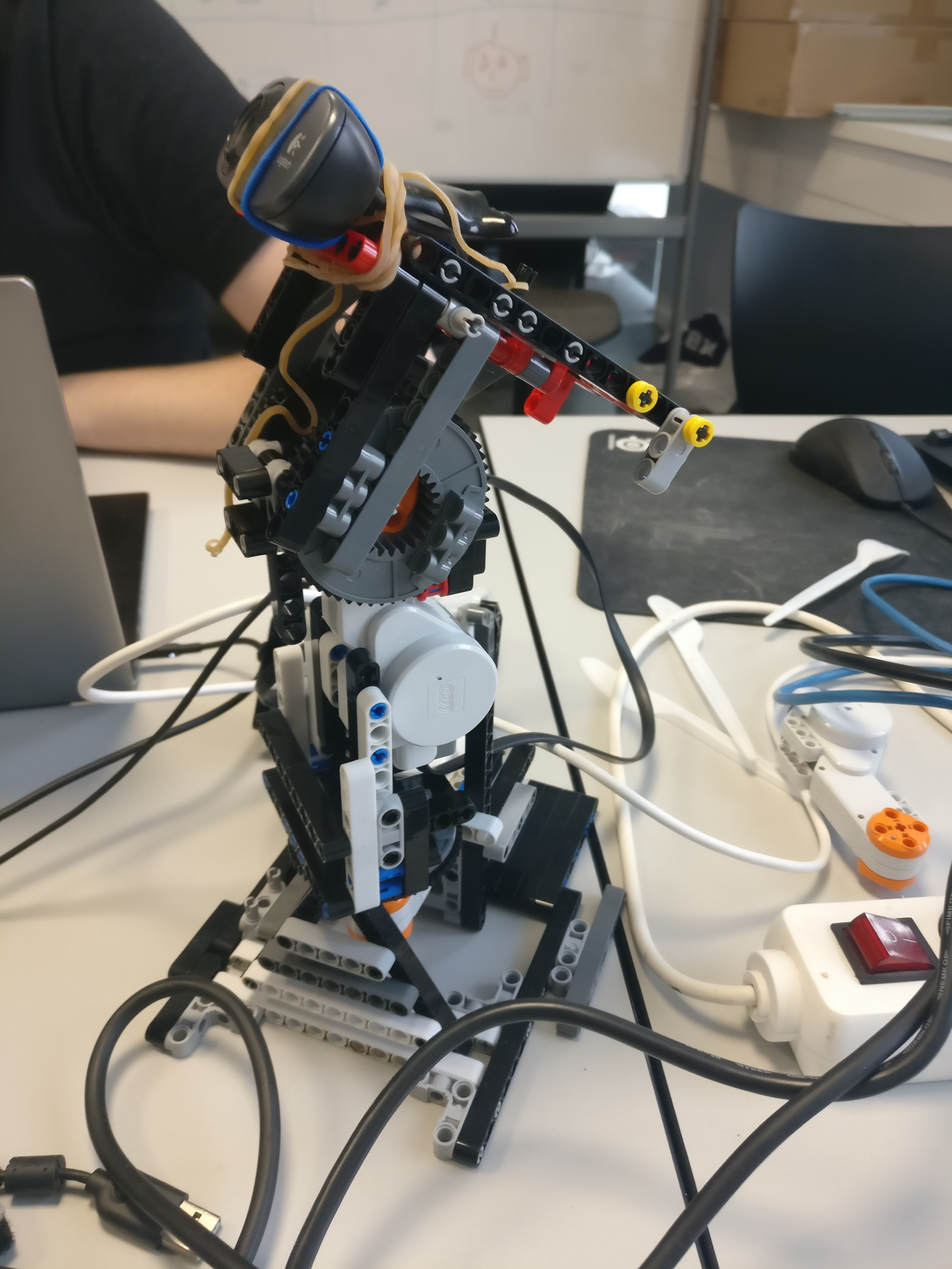
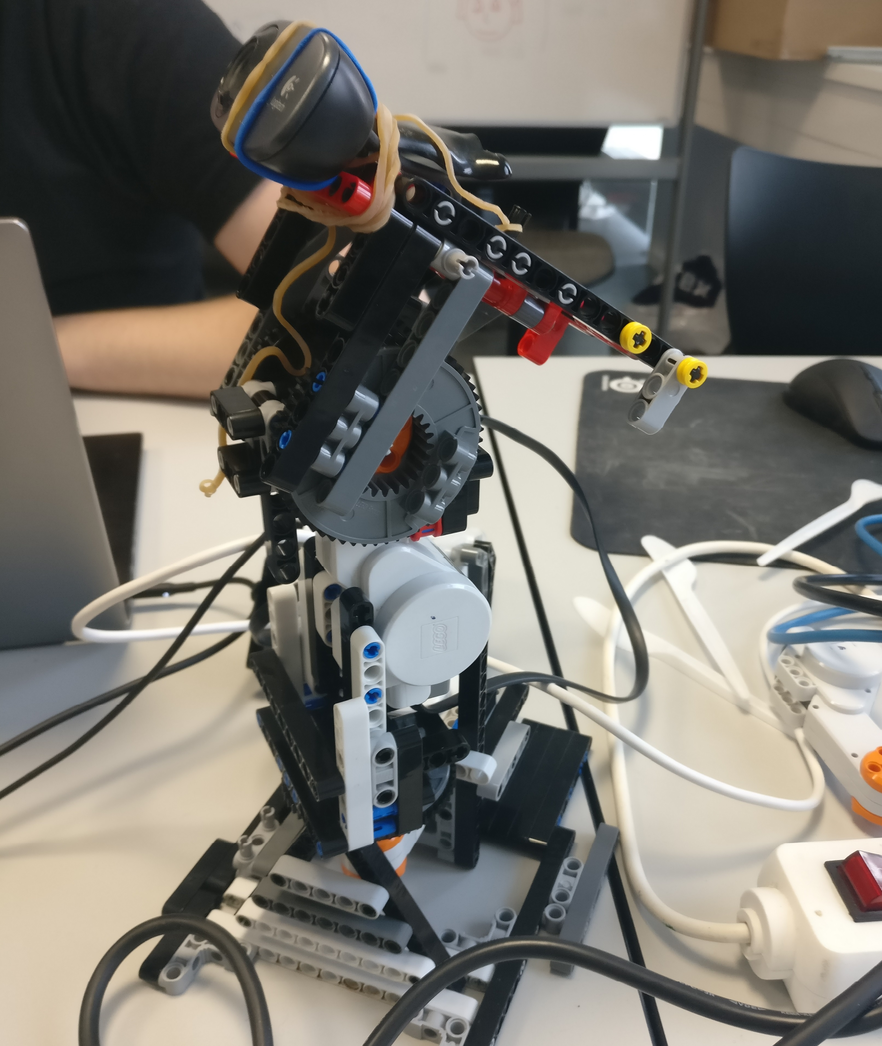
P5 216 compact robot (#127)
* Resizes images

* image pictures

diff --git a/report/4.Design/Robot_Design.tex b/report/4.Design/Robot_Design.tex
@@ -32,11 +32,11 @@ Once the base of the robot has been crafted, the turret can be developed in orde
 The turret has been through different iterations during the development. 
 On \autoref{fig:TurretEarly}, the first iteration of the turret can be seen.
 There were multiple problems with this early design, first of all, the top part of the turret was not stable enough for the robot to achieve the wanted \textit{robustness}.
-\figur{0.5}{images/TurretEarly}{The figure shows the first iteration of the turret design}{fig:TurretEarly}
+\figur{0.4}{images/TurretEarly}{The figure shows the first iteration of the turret design}{fig:TurretEarly}
 
 After the first iteration, a second attempt was made in order to address these issues. 
 On \autoref{fig:TurretMiddle}, the top part of the turret turned out to be too heavy for the motor to handle. 
-\figur{0.5}{images/TurretMiddle}{The figure shows the second iteration of the turret design}{fig:TurretMiddle}
+\figur{0.4}{images/TurretMiddle}{The figure shows the second iteration of the turret design}{fig:TurretMiddle}
 
 To solve this, the next iteration introduced a lighter model, as seen on \autoref{fig:TurretFinal}.
 The top of the turret has been significantly reduced in both complexity and weight. 
